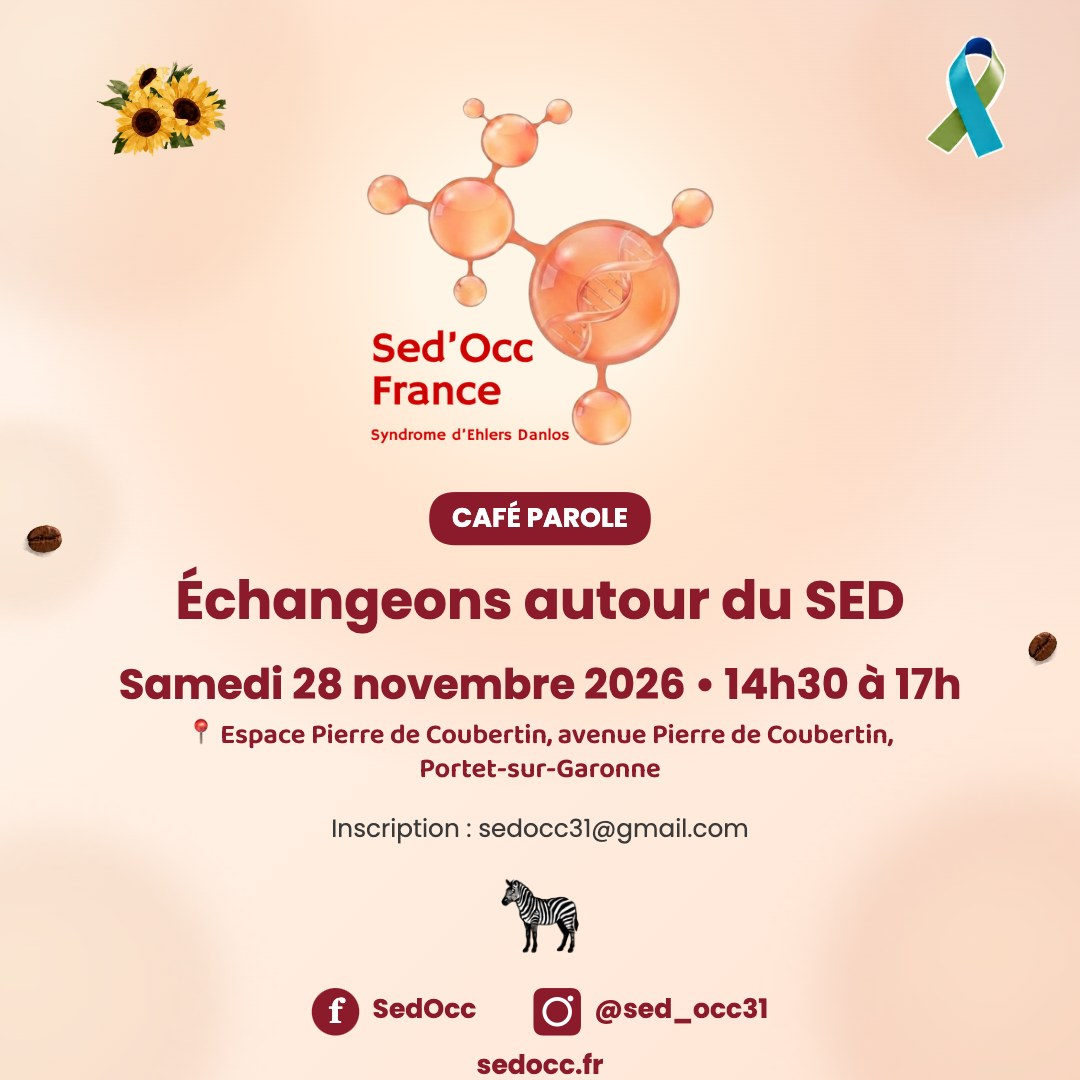
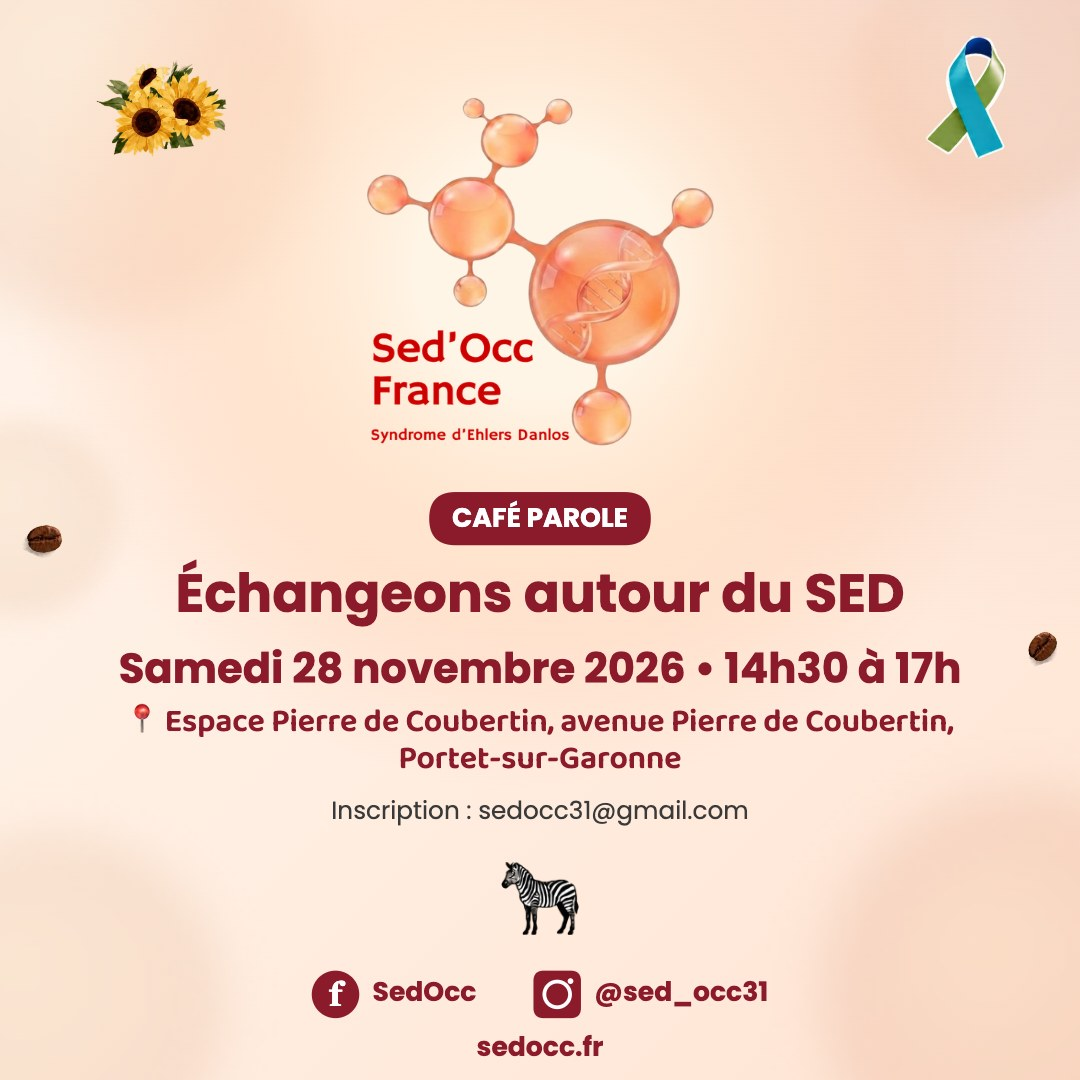
Agrandir plus nettement le texte du lieu sur les visuels cafe parole

Changed region(s): [[0.0917, 0.5194, 0.8861, 1.0]]

diff --git a/admin.html b/admin.html
@@ -4165,7 +4165,7 @@ function drawVisuel(ctx, fmt, style) {
         ctx.textAlign = 'center';
         ctx.textBaseline = 'middle';
         ctx.fillText(typeUpper, W / 2, cursorY + 2 * scale);
-        cursorY += bh / 2 + 36 * scale;
+        cursorY += bh / 2 + 28 * scale;
     }
 
     // Titre principal
@@ -4178,7 +4178,7 @@ function drawVisuel(ctx, fmt, style) {
         const lineH = titreFontSize * 1.15;
         const titreLines = wrapText(ctx, titre, W - padX * 2);
         titreLines.forEach((l, i) => ctx.fillText(l, W / 2, cursorY + i * lineH));
-        cursorY += titreLines.length * lineH + 28 * scale;
+        cursorY += titreLines.length * lineH + 20 * scale;
     }
 
     // Date + heure — la police rétrécit automatiquement si besoin pour ne jamais déborder
@@ -4202,18 +4202,18 @@ function drawVisuel(ctx, fmt, style) {
     // avec une police réduite automatiquement si le texte est long (adresse + précisions),
     // pour ne pas pousser le reste du visuel (icônes, sedocc.fr) hors du cadre.
     if (lieu) {
-        let lieuFontSize = 36 * scale;
+        let lieuFontSize = 44 * scale;
         ctx.font = '600 ' + lieuFontSize + 'px "Baloo 2", cursive, sans-serif';
         let lieuLines = wrapText(ctx, '📍 ' + lieu, W - padX * 2);
         if (lieuLines.length > 1) {
-            lieuFontSize = 29 * scale;
+            lieuFontSize = 34 * scale;
             ctx.font = '600 ' + lieuFontSize + 'px "Baloo 2", cursive, sans-serif';
             lieuLines = wrapText(ctx, '📍 ' + lieu, W - padX * 2);
         }
         ctx.fillStyle = colorAccent;
-        const lineH = lieuFontSize * 1.25;
+        const lineH = lieuFontSize * 1.15;
         lieuLines.forEach((l, i) => ctx.fillText(l, W / 2, cursorY + i * lineH));
-        cursorY += lieuLines.length * lineH + 26 * scale;
+        cursorY += lieuLines.length * lineH + 18 * scale;
     }
 
     // CTA
